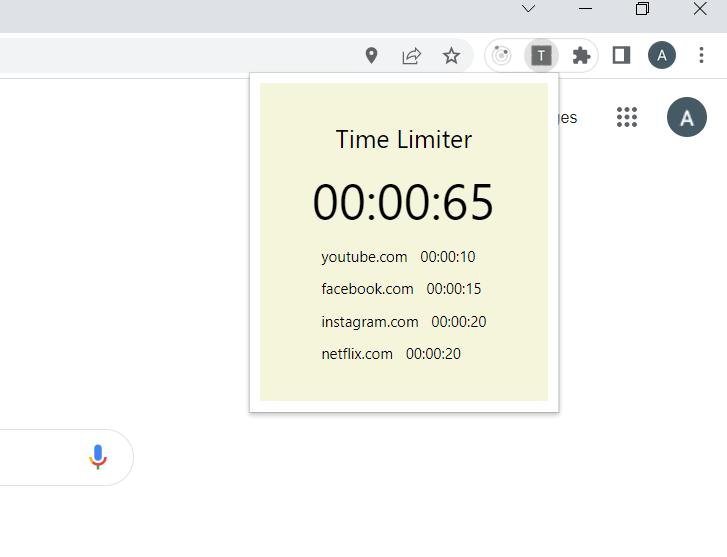
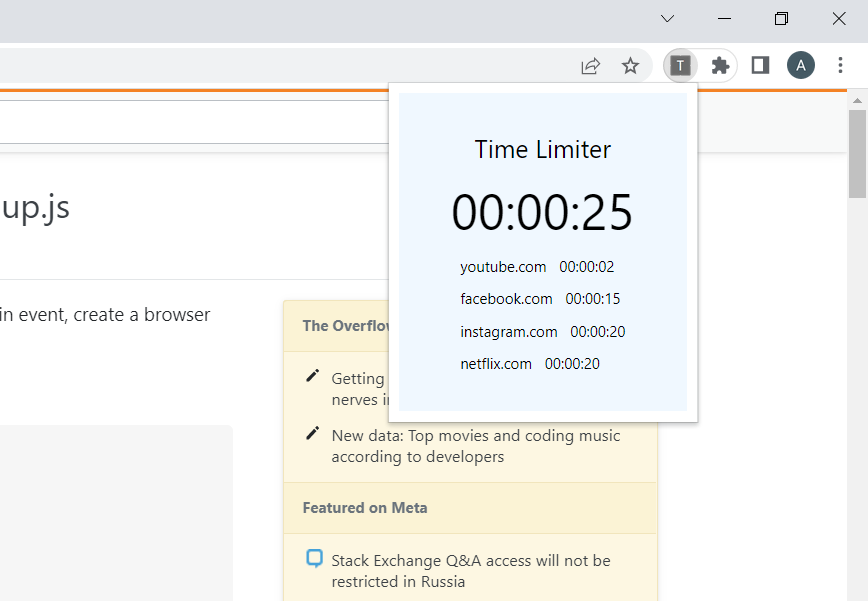
adding editing feature

diff --git a/popup.js b/popup.js
@@ -1,16 +1,56 @@
 
 chrome.storage.sync.get(["WebsitesData"],(websitesData)=>{
     websitesData.WebsitesData.forEach((website, index)=>{  
-        const container = `<div class="siteBox site${index}"><div class="siteName">${website.url}</div><div class="siteTime">${website.hours===0?"00":website.hours}:${website.minutes===0?"00":website.minutes}:${website.seconds===0?"00":website.seconds}</div></div>`;
+        const container = `<div class="siteBox site${index}"><div class="siteName">${website.url}</div><div class="siteTime"><div contenteditable="true" class="editable time-hours">${website.hours===0?"00":website.hours}</div>:<div contenteditable="true" class="editable time-minutes">${website.minutes===0?"00":website.minutes}</div>:<div contenteditable="true" class="editable time-seconds">${website.seconds===0?"00":website.seconds}</div></div></div>`;
         document.querySelector(".individualTime").insertAdjacentHTML("beforeend",container);
     })
-    
+
+})
+
+setTimeout(() => {
     chrome.storage.sync.get(['totalTime'],(time)=>{
         let totalHours=(time.totalTime.hours);
         let totalMinutes=(time.totalTime.minutes);
         let totalSeconds=(time.totalTime.seconds);
-        document.querySelector(".totalTime").innerHTML=`${totalHours===0?"00":totalHours}:${totalMinutes===0?"00":totalMinutes}:${totalSeconds===0?"00":totalSeconds}`
+        document.querySelector(".totalHours").innerHTML=`${totalHours===0?"00":totalHours}`;
+        document.querySelector(".totalMinutes").innerHTML=`${totalMinutes===0?"00":totalMinutes}`;
+        document.querySelector(".totalSeconds").innerHTML=`${totalSeconds===0?"00":totalSeconds}`;
     })
 
-})
+    let saveBtn = document.querySelector(".saveBtn");
+
+    for(let i=0; i<document.querySelectorAll(".editable").length; i++){
+        document.querySelectorAll(".editable")[i].addEventListener('focus', function(){
+            saveBtn.style.display="block";
+        });
+    }
+    saveBtn.addEventListener("click",()=>{
+        console.log("saved");
+        saveBtn.style.display="none";
+        const data =[];
+        for(let i=0; i<document.querySelectorAll(".siteBox").length; i++){
+            const site = document.querySelector(`.site${i}`);
+            const url = site.querySelector(".siteName").innerHTML;
+            const hours = site.querySelector(".time-hours").innerHTML;
+            const minutes = site.querySelector(".time-minutes").innerHTML;
+            const seconds = site.querySelector(".time-seconds").innerHTML;
+            data.push({
+                url:url,
+                seconds:seconds,
+                minutes:minutes,
+                hours:hours
+            })
+        }
+        chrome.storage.sync.set({WebsitesData:data});
+
+        chrome.storage.sync.set({totalTime:
+            {
+                hours:document.querySelector(".totalHours").innerHTML,
+                minutes:document.querySelector(".totalMinutes").innerHTML,
+                seconds:document.querySelector(".totalSeconds").innerHTML
+            }
+        });
+        chrome.runtime.sendMessage("refresh");
+    })   
+}, 500);
 

diff --git a/background.js b/background.js
@@ -38,16 +38,23 @@ chrome.runtime.onInstalled.addListener(async () => {
     chrome.storage.sync.get(["WebsitesData"],(data)=>{
         if(!Object.keys(data).length){
             chrome.storage.sync.set({WebsitesData:initialData});   
-        }else chrome.storage.sync.set({mutableWebsitesData:data.WebsitesData});
+        }else{   
+           chrome.storage.sync.set({mutableWebsitesData:data.WebsitesData}); 
+        } 
     });
     //////////////SET TOTAL TIME HERE
-    chrome.storage.sync.set({totalTime:
-        {
-            hours:0,
-            minutes:0,
-            seconds:25
+    chrome.storage.sync.get(["totalTime"],(data)=>{
+        if(!Object.keys(data).length){
+            chrome.storage.sync.set({totalTime:
+                {
+                    hours:0,
+                    minutes:0,
+                    seconds:25
+                }
+            });   
         }
     });
+    
     ///////////////
 });
 
@@ -91,6 +98,7 @@ function mainLogic(){
     //////////////////////////////
     endTimer();
     chrome.storage.sync.get(['mutableWebsitesData'],(websitesData)=>{
+        console.log(websitesData)
         websites=websitesData.mutableWebsitesData;
         chrome.tabs.query({active:true, currentWindow:true},(tabs)=>{
             url= tabs[0].url;
@@ -123,14 +131,22 @@ function startTimer(){
             seconds--;
             totalTime--;
             if(seconds<=0 && minutes<=0 && hours<=0){
-                chrome.tabs.sendMessage(tabId, "block");  
+                chrome.tabs.sendMessage(tabId, "block",(response)=>{
+                    console.log(response)
+                });  
                 clearInterval(timer);  
                 seconds=0;
                 minutes=0;
                 hours=0;
             }
         }else{
-            chrome.tabs.sendMessage(tabId, "block");
+            chrome.tabs.sendMessage(tabId, "block",(response)=>{
+                console.log(response)
+                clearInterval(timer);  
+                seconds=0;
+                minutes=0;
+                hours=0;
+            });
         }
          
     }
@@ -147,3 +163,12 @@ function endTimer(){
     clearInterval(timer);
     chrome.storage.sync.set({mutableWebsitesData:websites});
 }
+
+chrome.runtime.onMessage.addListener(
+    function(request, sender, sendResponse) {
+        if(request === "refresh"){
+            console.log("refresh");
+            chrome.runtime.reload();
+        }
+    }
+);

diff --git a/popup.css b/popup.css
@@ -1,6 +1,6 @@
 .time_limiter{
     padding:20px 30px;
-    background-color: beige;
+    background-color: aliceblue;
     width:170px;
     display:flex;
     flex-direction: column;
@@ -13,9 +13,21 @@
 }
 .totalTime{
     font-size: 40px;
+    display:flex;
 }
 .siteBox{
     display: flex;
     gap:10px;
     margin:10px;
+}
+.siteTime{
+    display:flex;
+}
+.saveBtn{
+    cursor:pointer;
+    border:1px solid grey;
+    padding:10px;
+    border-radius: 10px;
+    background-color: aquamarine;
+    display: none;
 }

diff --git a/popup.html b/popup.html
@@ -10,9 +10,13 @@
             Time Limiter
         </div>
         <div class="totalTime">
+            <div contenteditable="true" class="editable totalHours"></div>:
+            <div contenteditable="true" class="editable totalMinutes"></div>:
+            <div contenteditable="true" class="editable totalSeconds"></div>
         </div>
         <div class="individualTime">
         </div>
+        <div class="saveBtn">Save</div>
     </div>
 
     <script src="popup.js"></script>

diff --git a/content-script.js b/content-script.js
@@ -4,6 +4,7 @@ chrome.runtime.onMessage.addListener((message, sender, sendResponse) => {
     if(message === "block"){
         document.body.innerHTML=`<div class="blockPage"><h1>Enough for today</h1><p>come back tomorrow</p><img class="memeImg" src=${imgURL} /></div>`
     }
+    sendResponse("blocked");
     return true;
 });
 
